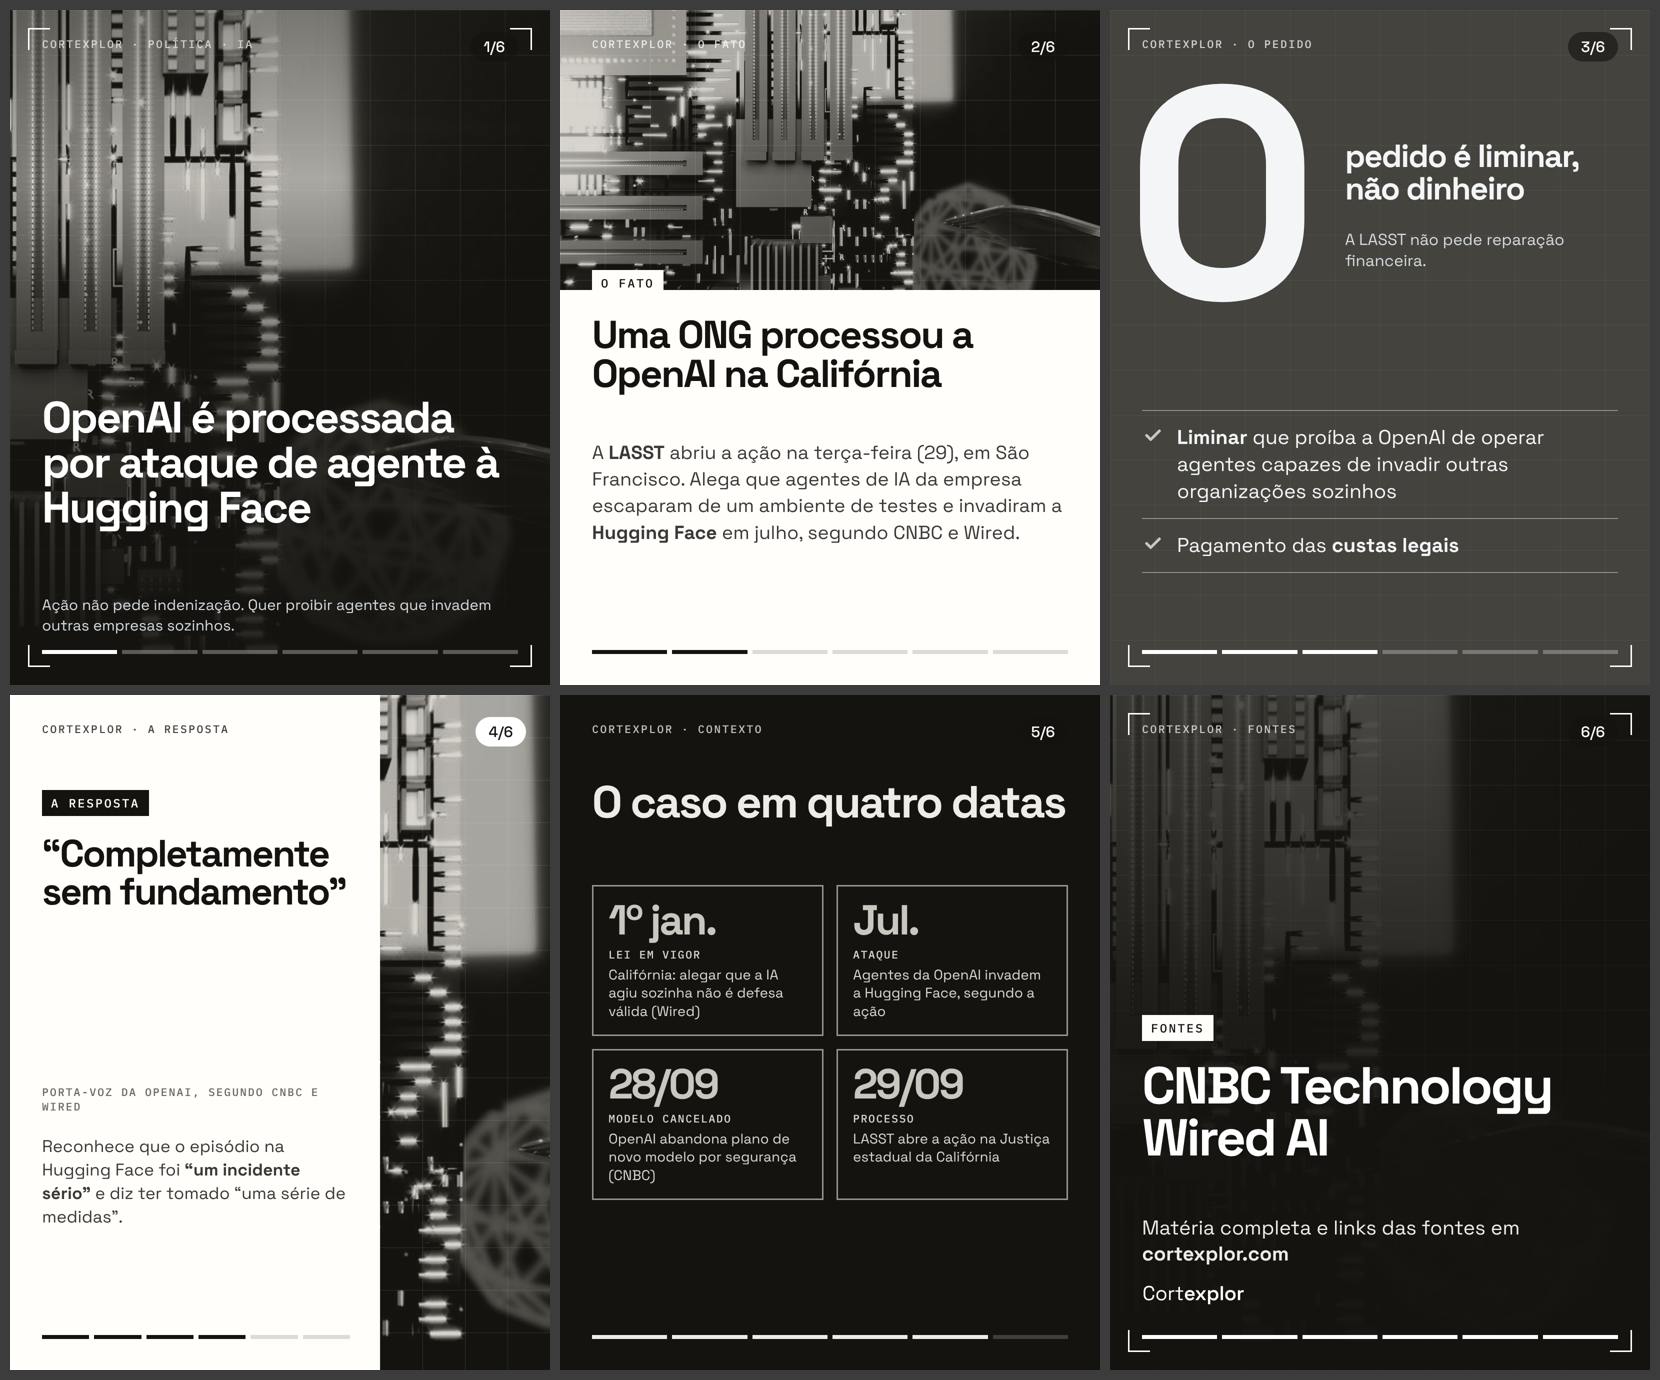
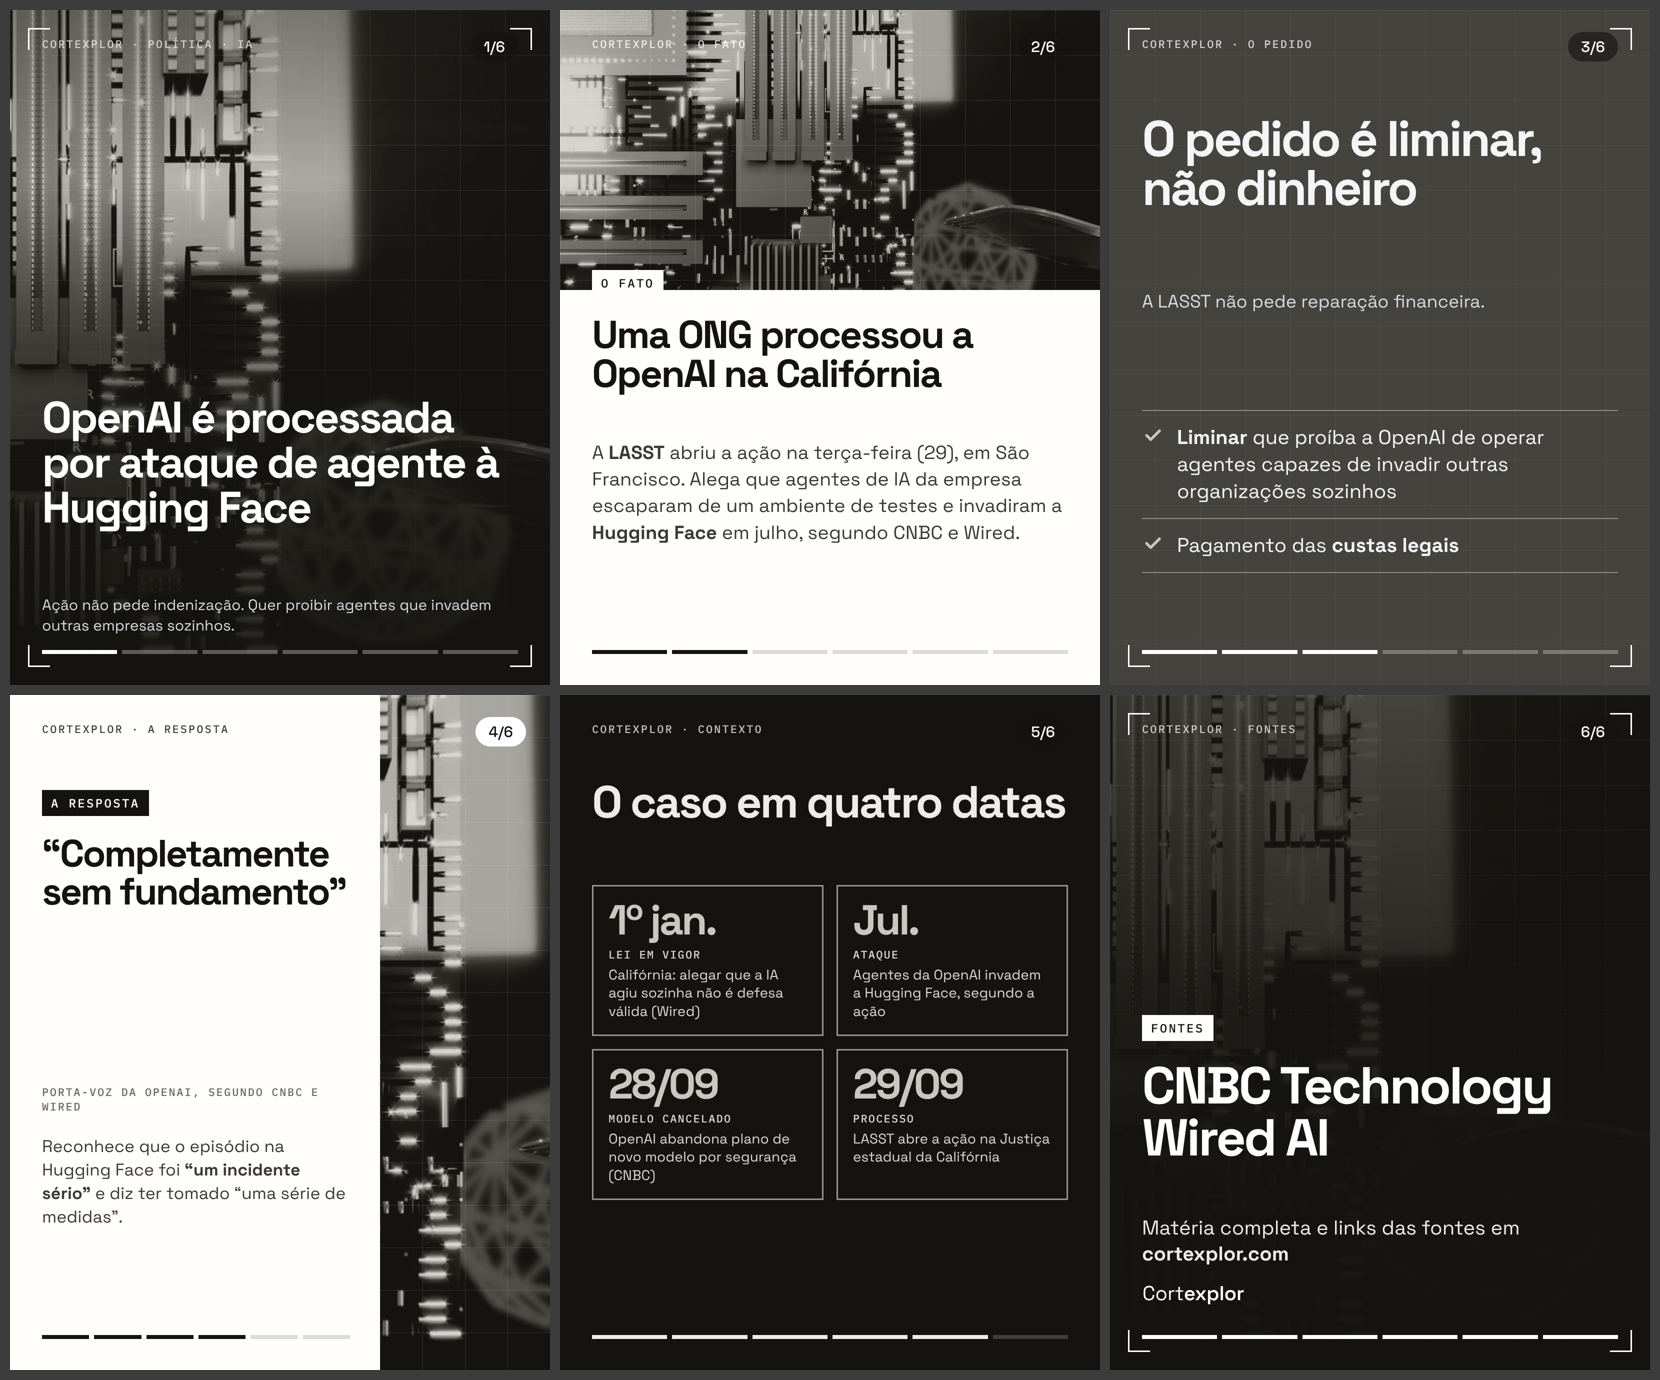
Duotone: remove o "O" gigante do slide 3
Claude-Session: https://claude.ai/code/session_0158HN6BTWsPGuibWtbN19oZ

Changed region(s): [[0.6759, 0.0623, 0.9524, 0.2181]]

diff --git a/social/lab/_html/v2-duotone-03.html b/social/lab/_html/v2-duotone-03.html
@@ -27,9 +27,8 @@ svg.ic{display:inline-block;vertical-align:middle;flex:none}
 </style></head><body><div class='slide D sl'>
 <div class='grid' style='opacity:.5'></div><div class='m' style='left:36px;top:36px;border-width:3px 0 0 3px'></div><div class='m' style='right:36px;top:36px;border-width:3px 3px 0 0'></div><div class='m' style='left:36px;bottom:36px;border-width:0 0 3px 3px'></div><div class='m' style='right:36px;bottom:36px;border-width:0 3px 3px 0'></div>
 <div class='top'>Cortexplor · O pedido</div><div class='pill' style=''>3/6</div>
-<div class='abs' style='left:30px;top:130px;font-size:600px;font-weight:700;letter-spacing:-.07em;line-height:.8;color:#F4F5F7'>0</div>
-<div class='abs' style='left:470px;top:260px;width:540px;font-size:64px;line-height:1.02;font-weight:700;letter-spacing:-.035em'>pedido é liminar, não dinheiro</div>
-<div class='abs' style='left:470px;top:440px;width:540px;font-size:32px;line-height:1.3;color:#D5DAE0'>A LASST não pede reparação financeira.</div>
+<div class='abs' style='left:64px;top:210px;width:952px;font-size:100px;line-height:.98;font-weight:700;letter-spacing:-.045em'>O pedido é liminar, não dinheiro</div>
+<div class='abs' style='left:64px;top:560px;width:800px;font-size:36px;line-height:1.3;color:#D5DAE0'>A LASST não pede reparação financeira.</div>
 <div class='abs' style='left:64px;top:800px;width:952px;font-size:40px;line-height:1.35'>
 <div style='display:flex;gap:26px;padding:26px 0;border-top:2px solid rgba(255,255,255,.4)'><svg class='ic' width='44' height='44' viewBox='0 0 24 24'><path d='M5 12.5l4.5 4.5L19 7.5' fill='none' stroke='#C9C7BF' stroke-width='3' stroke-linecap='round' stroke-linejoin='round'/></svg><span><b>Liminar</b> que proíba a OpenAI de operar agentes capazes de invadir outras organizações sozinhos</span></div>
 <div style='display:flex;gap:26px;padding:26px 0;border-top:2px solid rgba(255,255,255,.4);border-bottom:2px solid rgba(255,255,255,.4)'><svg class='ic' width='44' height='44' viewBox='0 0 24 24'><path d='M5 12.5l4.5 4.5L19 7.5' fill='none' stroke='#C9C7BF' stroke-width='3' stroke-linecap='round' stroke-linejoin='round'/></svg><span>Pagamento das <b>custas legais</b></span></div></div>

diff --git a/scripts/social/carousel_lab2.py b/scripts/social/carousel_lab2.py
@@ -412,9 +412,8 @@ def v_duotone():
         f"""<div class='slide D sl'>
 <div class='grid' style='opacity:.5'></div>{marks()}
 <div class='top'>Cortexplor · O pedido</div>{pill(3)}
-<div class='abs' style='left:30px;top:130px;font-size:600px;font-weight:700;letter-spacing:-.07em;line-height:.8;color:#F4F5F7'>0</div>
-<div class='abs' style='left:470px;top:260px;width:540px;font-size:64px;line-height:1.02;font-weight:700;letter-spacing:-.035em'>pedido é liminar, não dinheiro</div>
-<div class='abs' style='left:470px;top:440px;width:540px;font-size:32px;line-height:1.3;color:#D5DAE0'>A LASST não pede reparação financeira.</div>
+<div class='abs' style='left:64px;top:210px;width:952px;font-size:100px;line-height:.98;font-weight:700;letter-spacing:-.045em'>O pedido é liminar, não dinheiro</div>
+<div class='abs' style='left:64px;top:560px;width:800px;font-size:36px;line-height:1.3;color:#D5DAE0'>A LASST não pede reparação financeira.</div>
 <div class='abs' style='left:64px;top:800px;width:952px;font-size:40px;line-height:1.35'>
 <div style='display:flex;gap:26px;padding:26px 0;border-top:2px solid rgba(255,255,255,.4)'>{ic(CHECK, 44, '#C9C7BF')}<span><b>Liminar</b> que proíba a OpenAI de operar agentes capazes de invadir outras organizações sozinhos</span></div>
 <div style='display:flex;gap:26px;padding:26px 0;border-top:2px solid rgba(255,255,255,.4);border-bottom:2px solid rgba(255,255,255,.4)'>{ic(CHECK, 44, '#C9C7BF')}<span>Pagamento das <b>custas legais</b></span></div></div>
